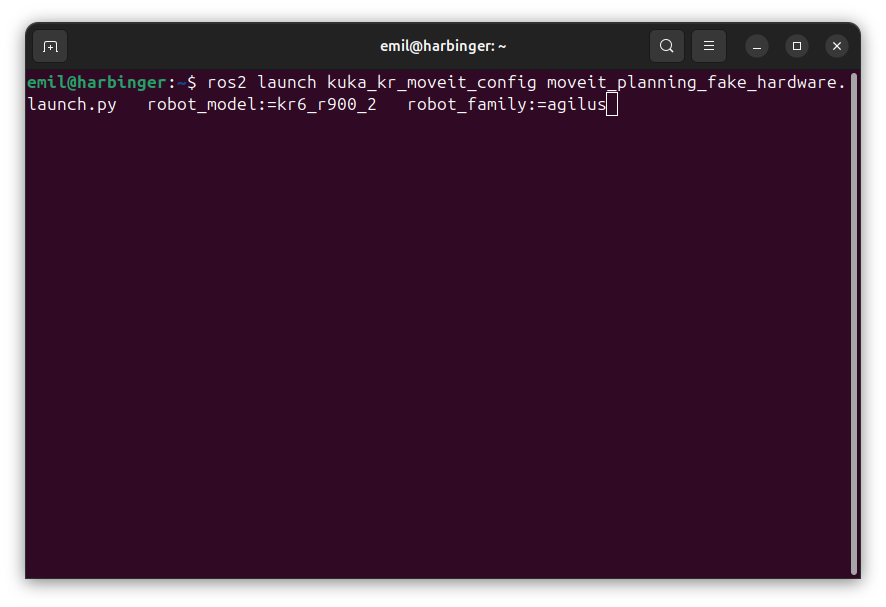
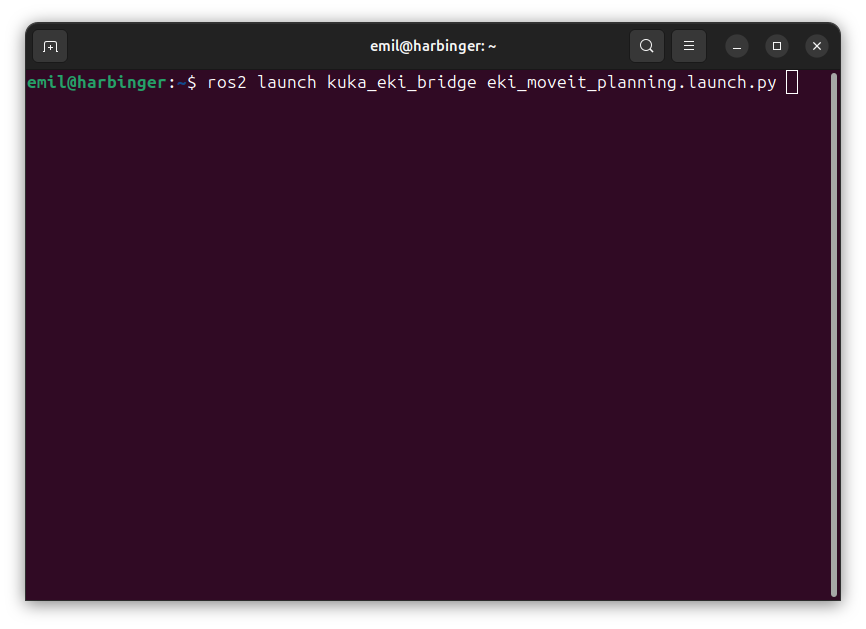
Updated Operator's_Manual.md

diff --git a/Operator's_Manual.md b/Operator's_Manual.md
@@ -1,15 +1,37 @@
 # KUKA ROS 2 Pick-and-Place — Operations Manual
 
-This manual covers running the pick-and-place system in simulation, bridging to the real
-robot, calibrating the workspace camera, and where to make changes when updating the
-system's logic.
+This repository provides a complete ROS 2 pick-and-place pipeline for the KUKA KR6 R900-2 using Ethernet KRL Interface (EKI). Motion planning is performed with MoveIt, while trajectory execution is handled directly through a dedicated FollowJointTrajectory controller that communicates with the KRC4 controller over EKI.
+
+## 1. Establishing the Bridge
+
+To connect your system to the real robot, do as follows.
+
+**On the KUKA SmartPAD:**
+1. Flip the key to the right and switch from **T1** to **AUT**.
+   ![Key switch on the SmartPAD, turned to change operating mode](images/smartpad_key_switch_1.png)
+   ![Operation Mode screen showing T1 / AUT selection](images/smartpad_key_switch_2.png)
+   ![AUT selected, ROS_EKI shown as the controller](images/smartpad_select_aut.png)
+2. Select **ros_eki**.
+   ![Navigator showing ros_eki selected under Program](images/smartpad_select_ros_eki.png)
+3. Press the green and white buttons (start key) behind the SmartPAD to start the program.
+   ![Green and white start-key buttons on the back of the SmartPAD](images/smartpad_start_key_buttons.png)
+4. Press the green play button on the side to run the program.
+   - To pause the robot at any time, press the red pause button.
+
+**On your system**, after the SmartPAD steps above are complete:
+```bash
+ros2 run kuka_eki_bridge kuka_eki_controller
+```
+![Gripper bridge terminal — connecting to KUKA controller](images/controller_terminal.png)
+
+This connects the system to the robot via **port 54600** through KUKA IP address
+**`192.168.1.147`**.
 
 ---
 
-## 1. Simulation / Base Setup (5 Terminals)
+## 2. Software Stack
 
-This sequence is required for both simulation testing and as the foundation for real
-hardware control. Run each command in its own terminal, in order.
+Once communication with the KUKA KRC4 controller has been successfully established, launch the remaining ROS 2 software stack. Run each command in its own terminal, in the order shown below.
 
 > **Rebuild first if anything changed:** if you've edited any core script, `setup.py`,
 > or added a new node since the last run, rebuild the workspace before launching
@@ -19,11 +41,9 @@ hardware control. Run each command in its own terminal, in order.
 > colcon build --continue-with-error
 > ```
 
-**Terminal 1 — MoveIt planning (fake hardware):**
+**Terminal 1 — MoveIt planning and EKI controller:**
 ```bash
-ros2 launch kuka_kr_moveit_config moveit_planning_fake_hardware.launch.py \
-  robot_model:=kr6_r900_2 \
-  robot_family:=agilus
+ros2 launch kuka_eki_bridge eki_moveit_planning.launch.py
 ```
 ![Launch command terminal](images/launch_command_terminal.png)
 ![RViz with MoveIt planning loaded](images/rviz_moveit_planning.png)
@@ -54,42 +74,6 @@ ros2 run kuka_ros2_demo pick_place_coordinator
 ![Pick-place coordinator terminal](images/pick_place_coordinator_terminal.png)
 
 This is enough to run and test the full pipeline in simulation.
-
----
-
-## 2. Moving the Real Robot
-
-The gripper on the real robot is controlled by a separate bridge, which acts on the
-`/gripper_cmd` flag published by the control server:
-
-```bash
-ros2 run kuka_eki_bridge gripper_bridge
-```
-
-### Establishing the Bridge
-
-After Terminals 1–5 above are all running, connect to the real robot as follows.
-
-**On the KUKA SmartPAD:**
-1. Flip the key to the right and switch from **T1** to **AUT**.
-   ![Key switch on the SmartPAD, turned to change operating mode](images/smartpad_key_switch_1.png)
-   ![Operation Mode screen showing T1 / AUT selection](images/smartpad_key_switch_2.png)
-   ![AUT selected, ROS_EKI shown as the controller](images/smartpad_select_aut.png)
-2. Select **ros_eki**.
-   ![Navigator showing ros_eki selected under Program](images/smartpad_select_ros_eki.png)
-3. Press the green and white buttons (start key) behind the SmartPAD to start the program.
-   ![Green and white start-key buttons on the back of the SmartPAD](images/smartpad_start_key_buttons.png)
-4. Press the green play button on the side to run the program.
-   - To pause the robot at any time, press the red pause button.
-
-**On your system**, after the SmartPAD steps above are complete:
-```bash
-ros2 run kuka_eki_bridge gripper_bridge
-```
-![Gripper bridge terminal — connecting to KUKA controller](images/gripper_bridge_terminal.png)
-
-This connects the system to the robot via **port 54600** through KUKA IP address
-**`192.168.1.147`**.
 
 ---
 
